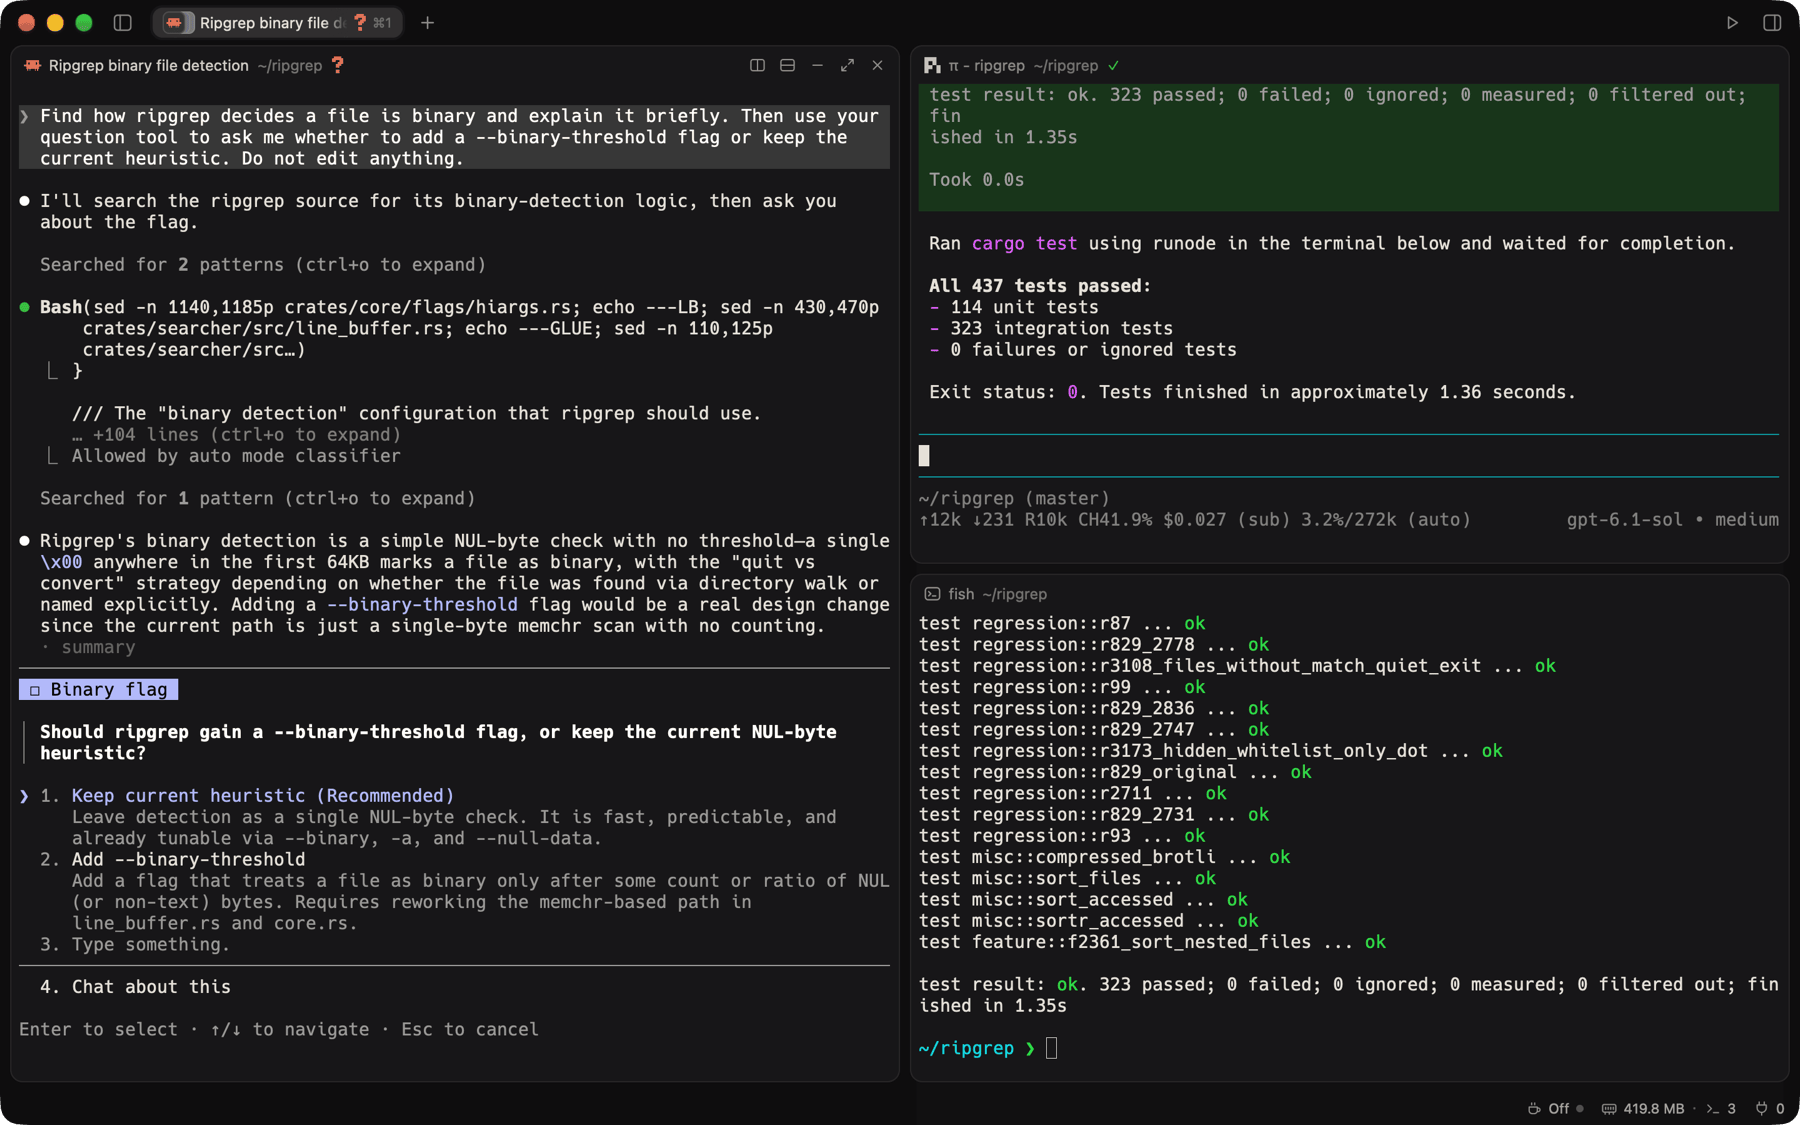
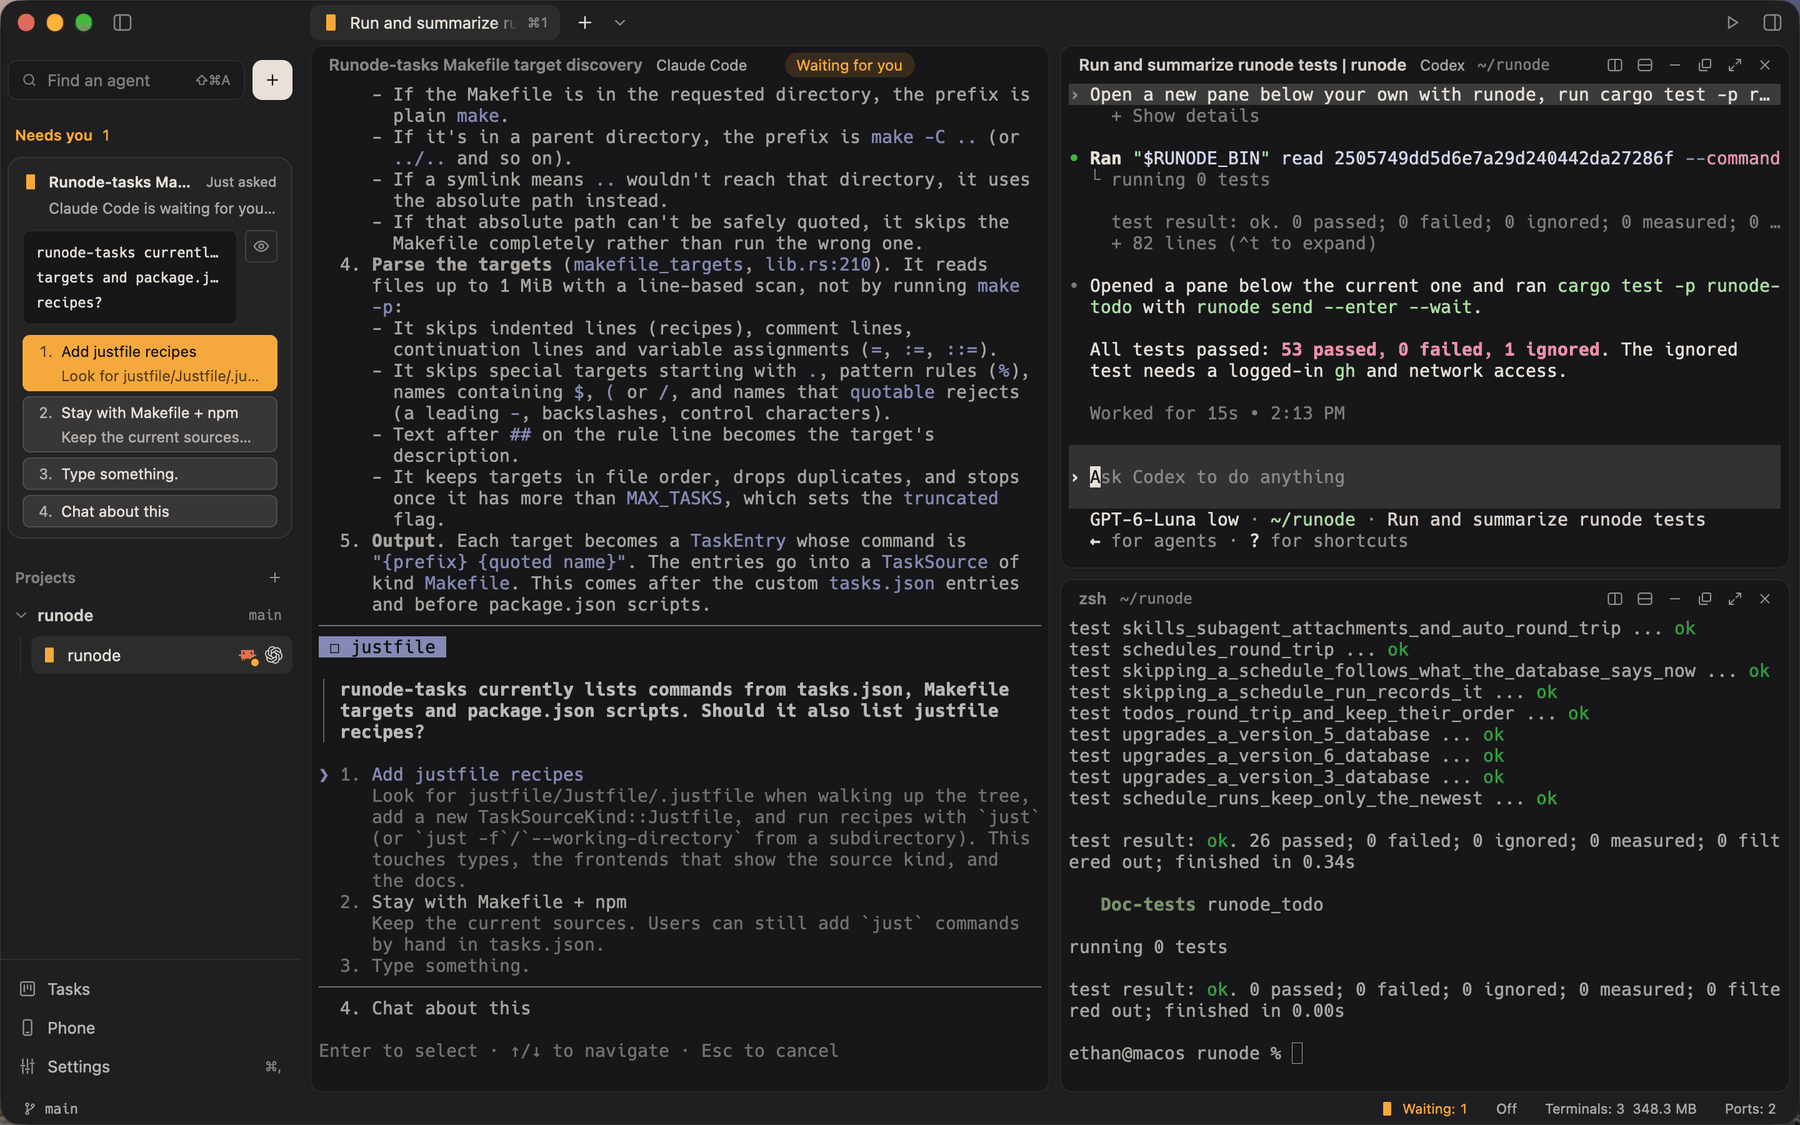
docs: 更新 README 的功能介绍，重录截图和演示动图
- README 补上侧栏回答 agent 的提问、项目和工作树、手机发图片视频，以及看板的排队、时限、自动完成、定时和检查命令
- 截图和五段动图都在虚拟机里对着 runode 仓库跑真的 Claude Code 和 Codex 重录，手机两段连的是真配对的电脑，换下只演旧界面的版本
- 图片的替代文字按新画面重写

diff --git a/README.md b/README.md
@@ -17,7 +17,7 @@
 </p>
 
 <p align="center">
-  <img src="docs/screenshot.png" alt="Runode with Claude Code waiting for an answer, Pi done, and the tests Pi ran in the pane below" width="900">
+  <img src="docs/screenshot.png" alt="Runode with Claude Code waiting on a question whose options show on the sidebar card, Codex done, and the tests Codex ran in the pane below" width="900">
 </p>
 
 ## About
@@ -28,25 +28,26 @@ Runode uses [Ghostty](https://ghostty.org)'s libghostty-vt for terminal emulatio
 
 ## Features
 
-- **Agent-aware**: recognizes 20+ agents, including Claude Code, Codex, Gemini CLI, Cursor, OpenCode and Amp, and marks each tab and sidebar entry as working, waiting for you, or done but unread.
+- **Agent-aware**: recognizes 20+ agents, including Claude Code, Codex, Gemini CLI, Cursor, OpenCode and Amp, and marks each tab and sidebar entry as working, waiting for you, or done but unread. When an agent asks a numbered question, answer it from the sidebar's Needs You list or its task card without switching to that terminal.
 - **Notifications and jumping**: notifies you and plays a sound when you're not looking. `⌘⇧A` lists the agents in every window, and `⌘⌥A` jumps straight to the next one that needs you. Notifications that programs send with OSC 9 or OSC 777 become system notifications too.
 - **Start agents from the tab menu**: the new tab menu lists the agents installed on the workspace's machine, local or over SSH, and starts one in a new tab; `⌃⌘1` to `⌃⌘9` open them by number. On Windows it also picks between PowerShell, Command Prompt and Git Bash.
 - **Scriptable**: the built-in `runode` CLI lists, reads and drives every terminal. Agents use it to run commands in a neighbouring pane, wait for them, read the output, or direct another agent.
-  <br><img src="docs/agents.gif" alt="Two Claude Code panes: the left one asks a question, the right one runs cargo test in a new pane below and summarizes it" width="900">
+  <br><img src="docs/agents.gif" alt="Claude Code asks a question and is answered from the sidebar card while Codex opens a pane below with runode, runs cargo test in it and summarizes the result" width="900">
+- **Projects and worktrees**: the sidebar groups workspaces by machine and then by repository, so every worktree of a repo sits under one project. Create a worktree on a new branch from the project header, and remove it along with its workspace when you close it.
 - **Persistent sessions**: with `terminal-host` on, sessions live in a separate host process and survive quitting, relaunching and upgrading the app. A pane that has to start over picks its Claude Code conversation back up.
 - **SSH hosts**: pick a host when you create a workspace. Runode connects with your system's OpenSSH, installs runode there when needed and reconnects after a drop. Terminals, the file tree, the Git panel and previews work directly on that machine, whether it runs macOS, Linux or Windows. Pasted screenshots and dropped files are uploaded to it, and localhost links are forwarded to your machine.
 - **Pair another computer**: pair with Runode on another computer and use its terminals, files, Git, port forwarding and remote desktop the same way as an SSH host.
-- **Remote from your phone**: the iOS and Android apps pair with your computer over a TLS 1.3 connection. On the same network it connects directly; once you set the network to 0.0.0.0 when pairing, it also reaches your computer from elsewhere through [iroh](https://iroh.computer) by public key, punching a direct path and falling back to a relay. From your phone you can watch terminals, answer agents, start a new agent, run tasks and commit to git.
-  <br><img src="docs/mobile.gif" alt="iOS app: Claude Code waits for an answer while Codex works, then the Git page shows a diff, stages a file and commits" width="300">
+- **Remote from your phone**: the iOS and Android apps pair with your computer over a TLS 1.3 connection. On the same network it connects directly; once you set the network to 0.0.0.0 when pairing, it also reaches your computer from elsewhere through [iroh](https://iroh.computer) by public key, punching a direct path and falling back to a relay. From your phone you can watch terminals, answer agents, start a new agent, send it photos and videos, run tasks and commit to git.
+  <br><img src="docs/mobile.gif" alt="iOS app: a Claude Code question shows on the home screen, the terminal opens, the phone picks an option and Claude makes the change" width="300">
 - **Remote desktop**: see and control a whole screen from your phone, or from Runode on another computer over SSH or pairing. Macs, Windows PCs and Linux machines can all be viewed, with low-latency hardware encoding. It can switch displays and unlock a locked screen with a password you saved.
-  <br><img src="docs/remote-desktop.gif" alt="iOS app in landscape showing a Mac's screen: taps open Runode's sidebar, a new tab and the task board" width="900">
+  <br><img src="docs/remote-desktop.gif" alt="iOS app in landscape showing a Mac's screen: taps switch Runode to Claude Code's tab, open the task board and go back to the terminal" width="900">
 - **Voice input**: dictate into the terminal on your computer or your phone. Speech is recognized offline with a local model; cloud recognition and polishing the text with an LLM are optional.
-- **Task board**: a kanban board for agent work. A schedule opens a terminal and starts an agent on a task at the time you set, and a task whose PR gets merged is marked done. Agents use it too, through `runode todo` and `runode schedule`.
-  <br><img src="docs/kanban.gif" alt="Task board: a new task is added, two tasks start, move to Needs You, and one is marked done" width="900">
+- **Task board**: a kanban board for agent work. Tasks can queue behind each other, run under a time limit and mark themselves done when the agent reports back. A schedule starts an agent at a set time or cron, optionally only when a check command finds something; built-in templates watch CI, review new PRs and triage new issues, and wait for the PR's checks to pass before finishing. A task whose PR gets merged is marked done. Agents use it too, through `runode todo` and `runode schedule`.
+  <br><img src="docs/kanban.gif" alt="Task board: a new task is started from the dialog, moves to In Progress and then Needs You with the agent’s options on the card, and the tasks end up Done" width="900">
 - **Floating panes**: float a pane over the others and dock it back, move panes between tabs and workspaces, or drag a terminal or remote desktop out into a window of its own.
 - **Project commands**: `⌘⇧R` lists the project's Makefile targets, package.json scripts and commands you add yourself. They run in a split beside you, and each project can bind its own shortcuts to them.
 - **Project panels**: a file tree, syntax-highlighted previews you can edit and save, and a Git panel that can stage hunks, commit, switch branches, and pull or push. An LLM can write the commit message, a diff hunk goes to the agent in the current terminal with one click, and a GitHub Actions page shows the repository's workflow runs.
-  <br><img src="docs/panels.gif" alt="File tree, Markdown and Rust previews, and the Git panel staging a hunk and committing" width="900">
+  <br><img src="docs/panels.gif" alt="File tree, formatted Markdown and highlighted Rust previews, and the Git panel staging a hunk and committing" width="900">
 - **Status bar**: keeps the computer awake while an agent works, shows memory use and listening ports, and forwards ports from SSH hosts to your machine.
 - **Ghostty compatible**: reads your existing Ghostty config and themes. Images sent with the Kitty graphics protocol, such as from `kitten icat`, show up on your computer and your phone.
 - **Native**: written in Rust, not Electron. The UI comes in English, Simplified Chinese and Traditional Chinese, and the app updates itself.
